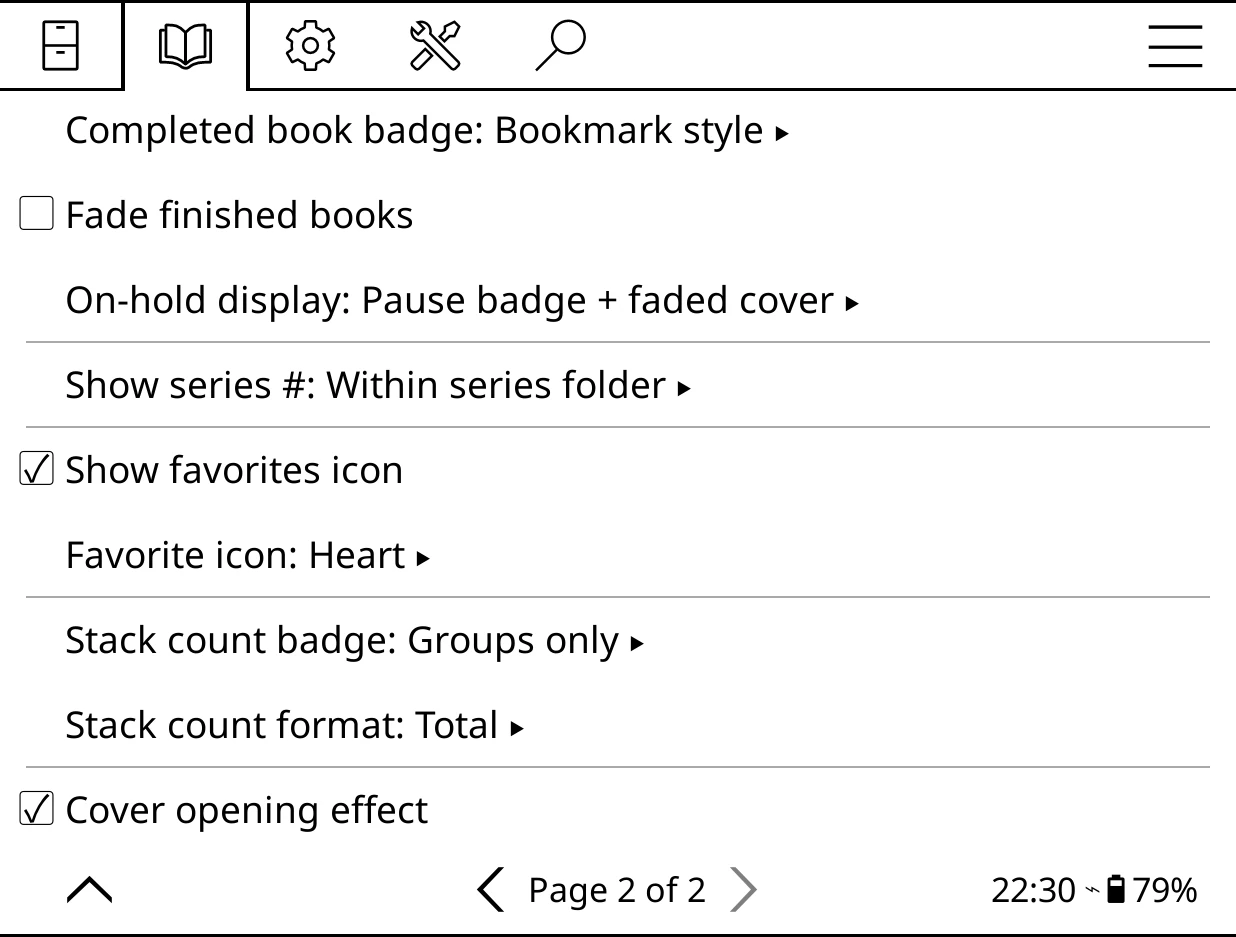
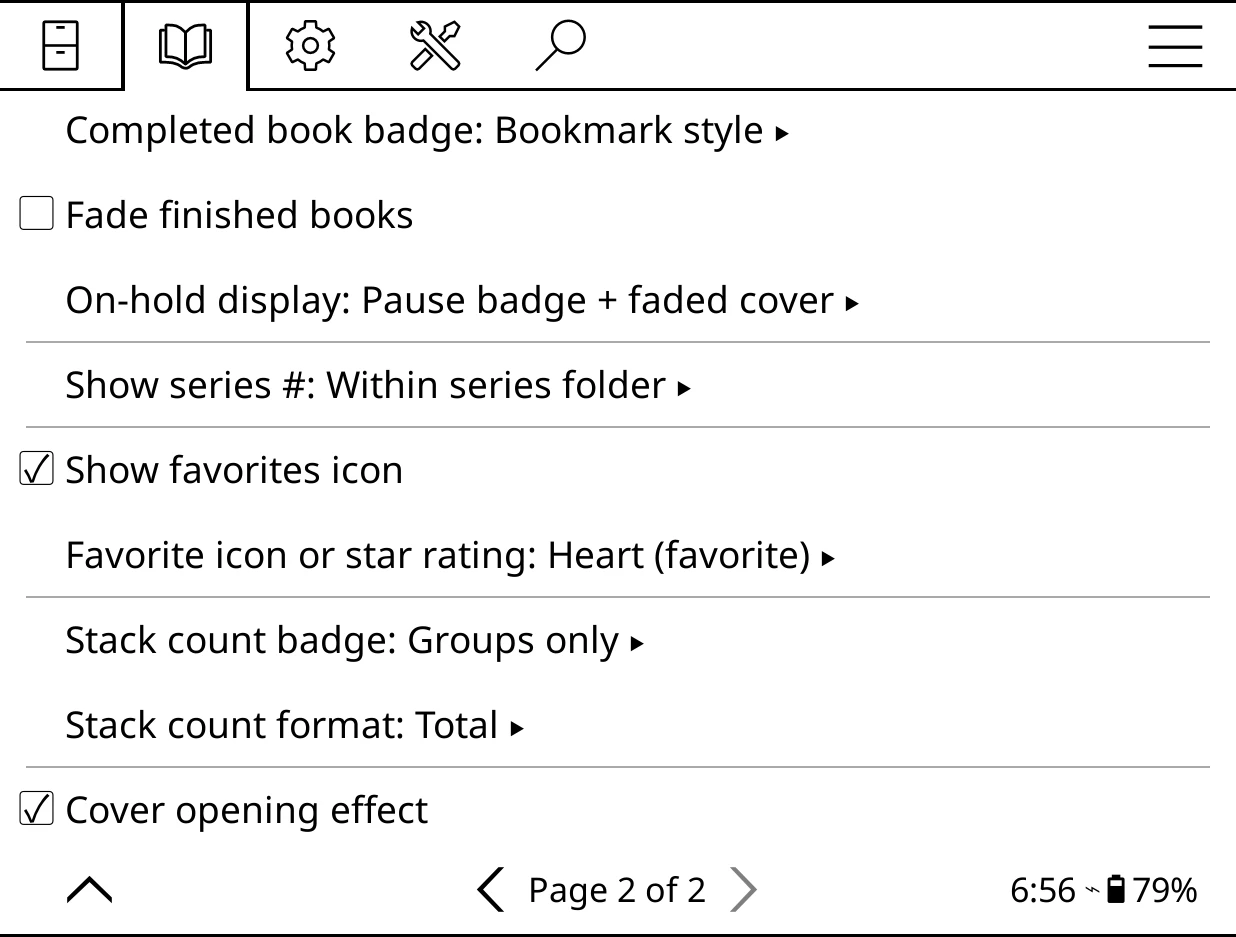
Bookshelf 5.5.5: star ratings on covers, Hardcover rating stand-in, refresh action
Claude-Session: https://claude.ai/code/session_01FyZ5CTy4zSdzyNxchwjqiG

Changed region(s): [[0.246, 0.5571, 0.6764, 0.619], [0.7994, 0.9285, 0.8608, 0.9594]]

diff --git a/docs/reference/menus.md b/docs/reference/menus.md
@@ -262,6 +262,9 @@ Ornament collection
 **Show Hardcover ratings**
 :   The top panel's rating row shows the cached Hardcover rating instead of yours, and the rating row is turned on. Default: off.
 
+**Use Hardcover rating if no user rating**
+:   Books you haven't rated yourself use their Hardcover rating instead: in star ratings on covers, the **Rating** sort and the **Ratings** shelf. Linked books only, from ratings already fetched. Default: off.
+
 **Use Hardcover metadata**
 :   Linked books show Hardcover's title, author, series and genres in place of their own. Default: off.
 
@@ -426,10 +429,10 @@ Used by the status line, each top panel section, each List view line and custom 
 :   The "#3" badge: **Always**, **Within series folder** or **Never**. Default: Within series folder (Always if you upgraded from an older version).
 
 **Show favorites icon**
-:   A mark on your favourites. Default: on.
+:   A mark in the cover's corner: on your favourites, or your star rating (see the next row). Default: on.
 
-**Favorite icon: *choice***
-:   **Heart** or **Star**. Default: Heart.
+**Favorite icon or star rating: *choice***
+:   **Heart (favorite)** or **Star (favorite)** on favourites, or **Stars (rating)**: every rated book shows its rating as a row of stars, closing up to fit on narrow covers. Default: Heart (favorite).
 
 **Stack count badge: *choice***
 :   A book count on stack tiles: **Off**, **Folders only**, **Groups only** or **All stacks**. Default: Groups only.
@@ -600,7 +603,7 @@ The buttons that open the start menu while reading are under **Advanced > While 
     - **Pre-warm shelf cache**: gets each shelf ready in the background after launch. Default: on.
     - **"Latest" walk depth**: how many folders deep the Latest source looks, 1 to 99. Default: 3.
     - **Cover cache: *N* MB**: memory for scaled covers, 8 to 128 MB. Default: set from your device's memory.
-    - **Clear cover cache**: empties the cover cache.
+    - **Clear cover cache**: empties the cover cache, and samples every spine's colour from its cover again.
     - **Color panel dithering**: colour e-ink only; keeps covers saturated. Default: on.
 
 **While reading**

diff --git a/docs/reference/gestures.md b/docs/reference/gestures.md
@@ -116,6 +116,7 @@ You can set any of KOReader's own gestures (a corner tap, a two-finger swipe and
 | **Bookshelf: open or close** | Closes the shelf if it is showing, otherwise opens it |
 | **Bookshelf: open** | Shows the shelf (or, set to off, closes it) |
 | **Bookshelf: go to home screen** | Shows the shelf at page 1 of the shelf you were on, out of any folder, stack or shelf of shelves |
+| **Bookshelf: refresh the library** | Picks up new and changed books straight away, like the swipe down |
 | **Bookshelf: next shelf** | Switches to the next shelf |
 | **Bookshelf: previous shelf** | Switches to the previous shelf |
 | **Bookshelf: next page of shelves** | Pages the shelf menu forward |
@@ -143,7 +144,7 @@ On devices without a touch screen, or with a keyboard, everything on the shelf c
 | Press (centre) | Acts on what has focus: opens a book, switches shelf, presses a footer button |
 | ScreenKB + Press, Shift + Press or Sym + AA | The same as a long-press: the book menu on a book or the top panel, the shelf editor on a shelf, the group menu on a stack |
 | Page forward / back | Turn the shelf's page, wherever the cursor is |
-| Back | Go back up one level out of a folder or stack |
+| Back | Go back up one level out of a folder or stack. On the base shelf it brings up KOReader's "Exit KOReader?" prompt, or does nothing if KOReader's **Back in file browser** is set to **Go to parent folder**. |
 
 Bookshelf leaves the Menu key alone; it still opens KOReader's menu on devices that have one. In the top panel the cover is the only focus stop, so use the long-press keys to reach the rating, description and tags.
 

diff --git a/docs/reference/whats-new.md b/docs/reference/whats-new.md
@@ -4,9 +4,20 @@ description: What's new in recent versions of Bookshelf, with links to where eac
 
 # What's new
 
-<span class="tag">These pages describe Bookshelf 5.5.4</span>
+<span class="tag">These pages describe Bookshelf 5.5.5</span>
 
 Full release notes for every version are on [GitHub Releases](https://github.com/AndyHazz/bookshelf.koplugin/releases), and in the app under **Bookshelf > Updates > View changelog**.
+
+## 5.5.5
+
+**Star ratings on covers**
+:   **Cover display > Favorite icon or star rating > Stars (rating)** puts your rating in the corner of every rated book. [More](menus.md#cover-display)
+
+**Hardcover ratings as a stand-in**
+:   **Hardcover enrichment > Use Hardcover rating if no user rating** fills in books you haven't rated, on covers, in the Rating sort and on the Ratings shelf. [More](../organise/hardcover.md#what-you-can-use)
+
+**Refresh the library from a gesture**
+:   **Bookshelf: refresh the library** is a Gesture manager action, for any gesture or a quick menu. [More](gestures.md#gesture-manager-actions)
 
 ## 5.5.4
 

diff --git a/docs/reference/troubleshooting.md b/docs/reference/troubleshooting.md
@@ -28,7 +28,7 @@ description: Fixes for the common problems - Bookshelf not showing, an empty she
     - Long-press the book, **Edit** tab, **Refresh metadata**.
     - For the whole library: **Bookshelf > Settings > Library & search > Scan all library metadata**.
     - To choose a cover yourself: the book menu's **Cover** tab.
-    - If covers look stale after changing many books, **Bookshelf > Settings > Advanced > Performance tweaks > Clear cover cache**.
+    - If covers or spine colours look stale after changing many books, **Bookshelf > Settings > Advanced > Performance tweaks > Clear cover cache**.
 
 ??? failure "All my spines are the same width"
     Spine width comes from the page count, and a book you've never opened has none. Run [Extract page counts](../organise/page-counts.md).

diff --git a/docs/organise/page-counts.md b/docs/organise/page-counts.md
@@ -15,7 +15,7 @@ An EPUB has no page count until something lays it out, so a book you've never op
 **Use page counts from, in this order**
 :   Tick the sources to try. The first one with an answer for a book wins.
 
-    1. **Publisher page numbers (fast)**: the printed page numbers some books carry.
+    1. **Publisher page numbers (fast)**: the printed page numbers some books carry. Not used for a book where you've turned off KOReader's **Use stable page numbers**.
     2. **Hardcover editions (fast)**: for books linked to [Hardcover](hardcover.md).
     3. **Your reading settings (slow)**: lays each book out in your own font and margins, so the count matches what you see.
     4. **Calibre page column (fast)**: a `#pages` column, as Calibre's Count Pages plugin fills in.

diff --git a/docs/customise/layout.md b/docs/customise/layout.md
@@ -50,7 +50,7 @@ List and spine shelves have their own row counts, in each shelf's **Shelf style*
 | **Fade finished books** | Finished covers drawn faded. |
 | **On-hold display** | A pause badge, a faded cover, both or neither. |
 | **Show series #** | The **#3** badge: **Always**, **Within series folder** or **Never**. |
-| **Show favorites icon**, **Favorite icon** | A **Heart** or **Star** on favourites. |
+| **Show favorites icon**, **Favorite icon or star rating** | A **Heart** or **Star** on favourites, or **Stars (rating)**: your star rating on every rated book. |
 | **Stack count badge** | How many books a stack holds. |
 | **Cover opening effect** | The cover flexes open as a book launches. |
 

diff --git a/docs/organise/hardcover.md b/docs/organise/hardcover.md
@@ -34,6 +34,7 @@ Under **Bookshelf > Hardcover enrichment**:
 | Setting | What it does |
 |---------|--------------|
 | **Show Hardcover ratings** | The top panel's rating shows Hardcover's public rating instead of yours. |
+| **Use Hardcover rating if no user rating** | Books you haven't rated use their Hardcover rating, in star ratings on covers, the **Rating** sort and the **Ratings** shelf. |
 | **Use Hardcover metadata** | Linked books use Hardcover's title, author, series and genres. |
 | **Download covers from Hardcover** | Linking also fetches Hardcover's cover. |
 | **Hardcover genres used** | How many of each book's Hardcover genres to use. |
